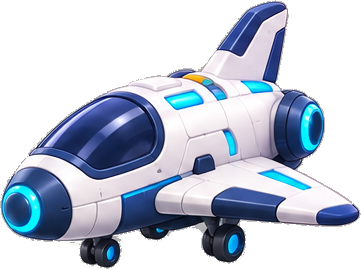
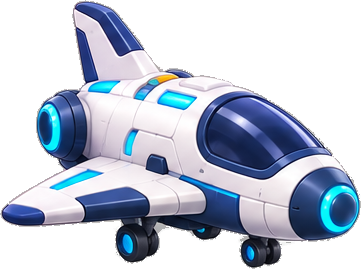
Nave pintada voava de ré: espelhada na exportação (bico para a direita, como o voo)
Claude-Session: https://claude.ai/code/session_01Bfb4hkr2L9M7HoQudLH9pQ

diff --git a/tools/export_painted.py b/tools/export_painted.py
@@ -40,8 +40,14 @@ CHARS = {
 }
 
 
+# A navezinha da folha veio com o bico para a esquerda; o jogo voa para a direita (era o desenho antigo).
+MIRROR = {("props", "ship_side"), ("words", "nave")}
+
+
 def put(src, group, name, side):
     im = Image.open(src).convert("RGBA")
+    if (group, name) in MIRROR:
+        im = im.transpose(Image.FLIP_LEFT_RIGHT)
     k = min(1.0, side / max(im.size))
     if k < 1.0:
         im = im.resize((max(1, round(im.width * k)), max(1, round(im.height * k))), Image.LANCZOS)
